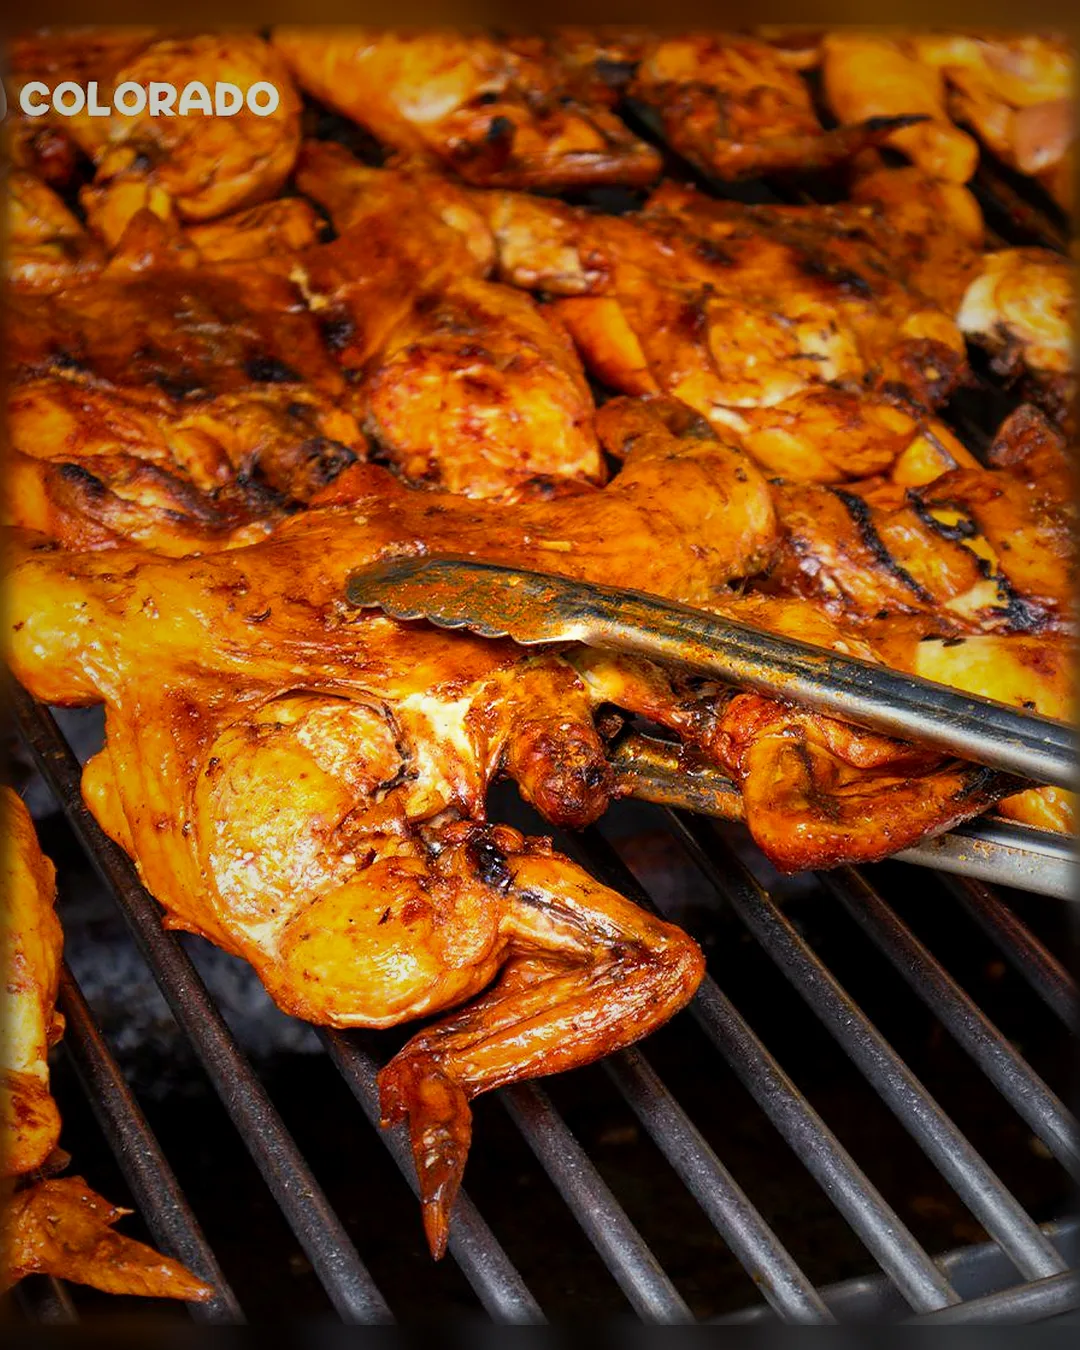
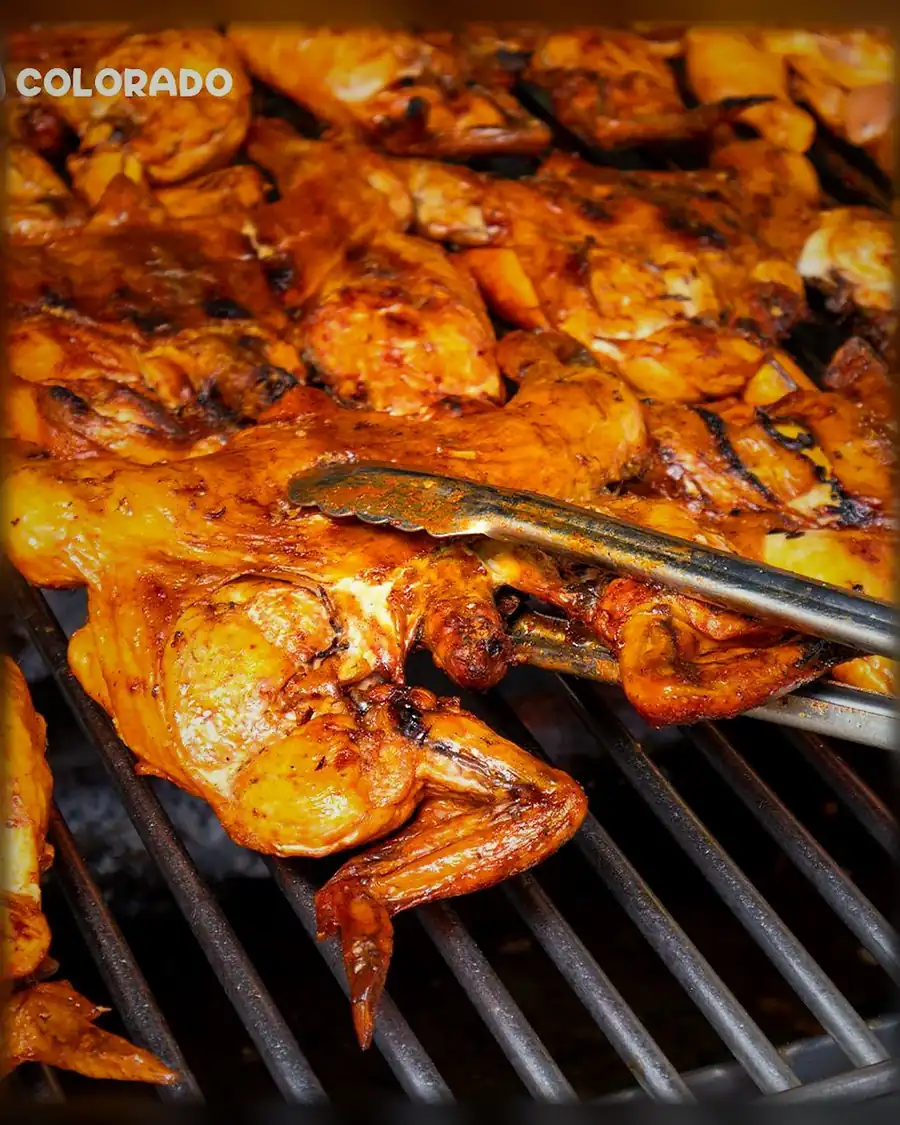
Add files via upload

Changed region(s): [[0.56, 0.7156, 0.6222, 0.7467], [0.5289, 0.7467, 0.56, 0.7778]]

diff --git a/index.html b/index.html
@@ -14,6 +14,8 @@
 <meta property="og:url" content="https://polloscolorado.pages.dev/">
 <link rel="icon" href="icono.svg" type="image/svg+xml">
 <link rel="apple-touch-icon" href="apple-touch-icon.png">
+<!-- La portada es lo primero que se ve: que el navegador la empiece a bajar de inmediato -->
+<link rel="preload" as="image" href="portada.webp" type="image/webp" fetchpriority="high">
 <link rel="preconnect" href="https://fonts.googleapis.com">
 <link rel="preconnect" href="https://fonts.gstatic.com" crossorigin>
 <link rel="stylesheet" href="https://fonts.googleapis.com/css2?family=Anton&family=Barlow:wght@400;500;600;700&family=Barlow+Condensed:wght@500;600;700&display=swap">
